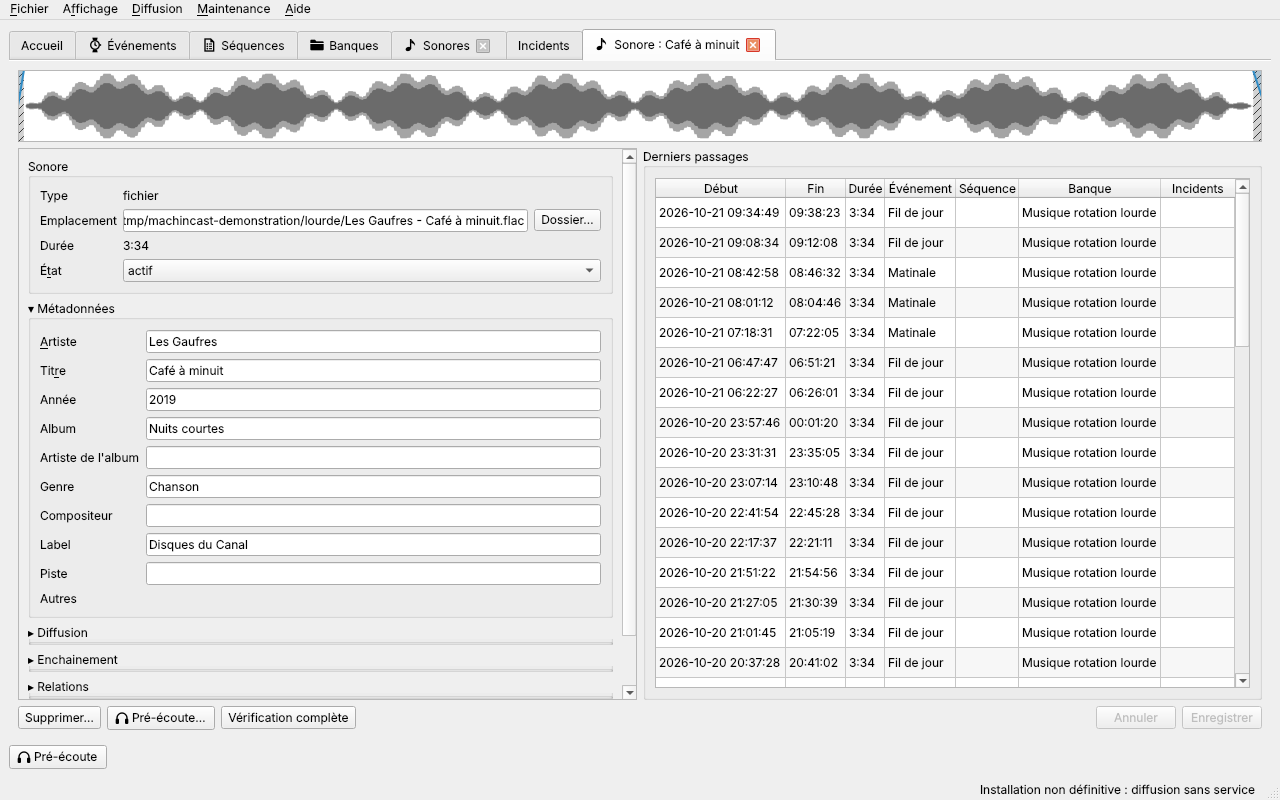
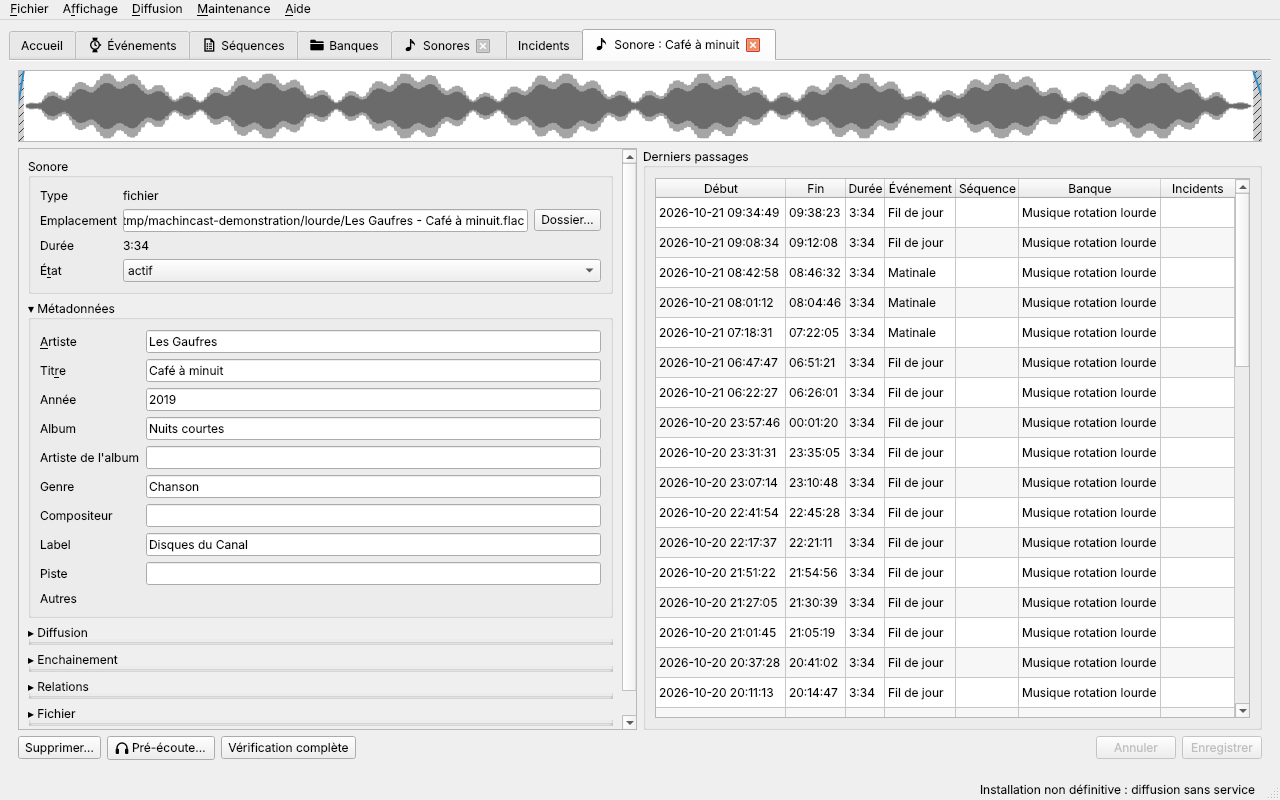
feat(interface): « Pré-écoute de l'antenne » en tête du menu « Diffusion », à la place du bouton du bas de la fenêtre
https://github.com/dascritch/machincast/issues/245
Pré-écoute en Menu → Diffusion

Claude-Session: https://claude.ai/code/session_01KaPegkCQoT3k3oMgjXGsiv

Changed region(s): [[0.0, 0.875, 0.2812, 0.9688], [0.7812, 0.8438, 0.9688, 0.9375], [0.4688, 0.8438, 0.75, 0.875]]

diff --git a/src/machincast/interface/ui/fenetre_principale.py b/src/machincast/interface/ui/fenetre_principale.py
@@ -15,9 +15,8 @@ from PySide6.QtGui import (QBrush, QColor, QConicalGradient, QCursor,
     QFont, QFontDatabase, QGradient, QIcon,
     QImage, QKeySequence, QLinearGradient, QPainter,
     QPalette, QPixmap, QRadialGradient, QTransform)
-from PySide6.QtWidgets import (QApplication, QHBoxLayout, QMainWindow, QPushButton,
-    QSizePolicy, QSpacerItem, QStatusBar, QTabWidget,
-    QVBoxLayout, QWidget)
+from PySide6.QtWidgets import (QApplication, QMainWindow, QSizePolicy, QStatusBar,
+    QTabWidget, QVBoxLayout, QWidget)
 
 class Ui_FenetrePrincipale(object):
     def setupUi(self, FenetrePrincipale):
@@ -34,20 +33,6 @@ class Ui_FenetrePrincipale(object):
 
         self.disposition.addWidget(self.onglets)
 
-        self.pied = QHBoxLayout()
-        self.pied.setObjectName(u"pied")
-        self.preecouter_l_antenne = QPushButton(self.centre)
-        self.preecouter_l_antenne.setObjectName(u"preecouter_l_antenne")
-
-        self.pied.addWidget(self.preecouter_l_antenne)
-
-        self.pousser_le_pied = QSpacerItem(0, 0, QSizePolicy.Policy.Expanding, QSizePolicy.Policy.Minimum)
-
-        self.pied.addItem(self.pousser_le_pied)
-
-
-        self.disposition.addLayout(self.pied)
-
         FenetrePrincipale.setCentralWidget(self.centre)
         self.barre_d_etat = QStatusBar(FenetrePrincipale)
         self.barre_d_etat.setObjectName(u"barre_d_etat")
@@ -60,9 +45,5 @@ class Ui_FenetrePrincipale(object):
 
     def retranslateUi(self, FenetrePrincipale):
         FenetrePrincipale.setWindowTitle(QCoreApplication.translate("FenetrePrincipale", u"MachinCast", None))
-#if QT_CONFIG(tooltip)
-        self.preecouter_l_antenne.setToolTip(QCoreApplication.translate("FenetrePrincipale", u"\u00c9couter l'antenne sur la sortie de pr\u00e9-\u00e9coute, aussit\u00f4t", None))
-#endif // QT_CONFIG(tooltip)
-        self.preecouter_l_antenne.setText(QCoreApplication.translate("FenetrePrincipale", u"Pr\u00e9-\u00e9coute", None))
     # retranslateUi
 

diff --git a/tests/etapes_preecoute.py b/tests/etapes_preecoute.py
@@ -5,7 +5,8 @@ l'antenne depuis le VU-mètre (test_vumetre.py, https://github.com/dascritch/mac
 """
 
 import psycopg
-from PySide6.QtCore import QPoint, Qt
+from PySide6.QtCore import Qt
+from PySide6.QtWidgets import QPushButton
 from pytest_bdd import parsers, then, when
 from pytestqt.qtbot import QtBot
 
@@ -130,21 +131,11 @@ def demander(interface: Contexte, base_vide: Connexion, titre: str) -> None:
 	fenetre(interface)._preecouter(identifiant(base_vide, "sonores", "titre", titre))
 
 
-@then("le bouton « Pré-écoute » est en bas à gauche de la fenêtre, hors des onglets")
-def en_bas_a_gauche(interface: Contexte, qtbot: QtBot) -> None:
-	"""https://github.com/dascritch/machincast/issues/223 : dans la barre d'état, à gauche de ses messages."""
+@then("la fenêtre n'a pas de bouton « Pré-écoute » sous ses onglets")
+def sans_bouton(interface: Contexte) -> None:
+	"""https://github.com/dascritch/machincast/issues/245 : l'entrée du menu « Diffusion » remplace le bouton."""
 	ouverte = fenetre(interface)
-	ouverte.show()
-	qtbot.wait(50)
-	bouton = ouverte.ui.preecouter_l_antenne
-	assert bouton.isVisible()
-	assert bouton.text() == "Pré-écoute"
-	assert not ouverte.ui.onglets.isAncestorOf(bouton)
-	coin = bouton.mapTo(ouverte, QPoint(0, 0))
-	assert coin.x() < ouverte.width() / 4, coin
-	assert coin.y() > ouverte.ui.onglets.mapTo(ouverte, QPoint(0, ouverte.ui.onglets.height())).y(), coin
-
-
-@when("je clique sur le bouton « Pré-écoute » de la fenêtre")
-def cliquer_preecoute(interface: Contexte, qtbot: QtBot) -> None:
-	qtbot.mouseClick(fenetre(interface).ui.preecouter_l_antenne, Qt.MouseButton.LeftButton)
+	hors_des_onglets = [
+		bouton for bouton in ouverte.findChildren(QPushButton) if not ouverte.ui.onglets.isAncestorOf(bouton)
+	]
+	assert [bouton.text() for bouton in hors_des_onglets if "Pré-écoute" in bouton.text()] == []

diff --git a/src/machincast/interface/fenetre.py b/src/machincast/interface/fenetre.py
@@ -231,8 +231,6 @@ class FenetrePrincipale(QMainWindow):
 		self.accueil.client.etat_recu.connect(self._suivre_le_texte_public)
 		self._texte_public: str | None = None
 		"""Le texte public du sonore en cours, titre de l'écoute de l'antenne."""
-		self.ui.preecouter_l_antenne.setIcon(icones.icone("pré-écoute"))
-		self.ui.preecouter_l_antenne.clicked.connect(lambda: self._ecouter_l_antenne(lancer=True))
 		self.accueil.client.etat_recu.connect(self._proposer_les_interruptions)
 		self._proposer_les_interruptions(ARRET)
 		self._relire_le_service()
@@ -321,6 +319,11 @@ class FenetrePrincipale(QMainWindow):
 		preecoute.triggered.connect(lambda: self._preecouter(None))
 		self.menu_diffusion = self.menuBar().addMenu("&Diffusion")
 		self.menu_diffusion.aboutToShow.connect(self._relire_le_service)
+		# L'écoute de l'antenne, lancée aussitôt, en tête du menu (https://github.com/dascritch/machincast/issues/245).
+		ecouter = self.menu_diffusion.addAction(icones.icone("pré-écoute"), "Pré-écoute de l'antenne")
+		ecouter.setToolTip("Écouter l'antenne sur la sortie de pré-écoute, aussitôt")
+		ecouter.triggered.connect(lambda: self._ecouter_l_antenne(lancer=True))
+		self.menu_diffusion.addSeparator()
 		self.pilotes: dict[str, QAction] = {}
 		for verbe, (entree, _reussite, _echec) in pilotage.VERBES.items():
 			action = self.menu_diffusion.addAction(entree)

diff --git a/doc/spec.md b/doc/spec.md
@@ -685,7 +685,7 @@ Mise en œuvre ([#28](https://github.com/dascritch/machincast/issues/28), `machi
 	- VU-mètre : celui de l'accueil ([§ 8.1](#81-écran-par-défaut)), horizontal : niveau RMS de chaque canal (élément `level`), de -60 à 0 dB, orange au-delà de -12 dB, rouge au-delà de -3 dB, et crête par-dessus, avec son repère ; son échelle en dB, sous les canaux, va de -60 à gauche à 0 à droite.
 	- Informations : format (codec), débit (celui des tags, sinon « ≈ » la taille du fichier sur sa durée), échantillonnage, canaux et, pour un stream, les secondes pré-décodées : la part remplie de son tampon de 5 secondes.
 	- Sortie : sur la sortie de l'antenne (`audio.sortie`), le périphérique `audio.preecoute`, jamais celui de l'antenne. Le choix liste les périphériques du poste que voit GStreamer, comme `gst-device-monitor-1.0 Audio/Sink`, ceux de la sortie configurée seulement (`machincast.audio.peripheriques`) : nœuds PipeWire, désignés par leur `node.name`, périphériques PulseAudio ou ALSA, par leur nom interne ; celui de la diffusion y est grisé, suivi de « (diffusion) », et ne peut pas être choisi, même par le clavier ; le périphérique configuré vient d'abord, « (introuvable) » s'il est absent. Le choix arrête la lecture, et s'enregistre dans `audio.preecoute` du fichier de configuration, qui garde ses commentaires ; sans fichier, il vaut pour la session.
-	- Écoute de l'antenne ([#24](https://github.com/dascritch/machincast/issues/24)) : un clic sur le VU-mètre de l'accueil charge l'antenne dans la fenêtre de pré-écoute, à la place du sonore précédent, à l'arrêt ; le bouton « Pré-écoute » de la fenêtre principale, en bas à gauche, hors des onglets, la charge de même et la lance aussitôt ([#223](https://github.com/dascritch/machincast/issues/223)). Le titre de la fenêtre est « en cours : » suivi du texte public du sonore en cours (champ `texte_public` de la socket d'état, `—` sans), qu'il suit tant que la fenêtre écoute l'antenne ; la source est « Antenne : » et le port de monitoring. Sous PipeWire, quand l'antenne et la pré-écoute y sont toutes deux, la lecture relie dans le graphe de PipeWire, par `pw-link` (`machincast.interface.liaison`), chaque port de monitoring de l'antenne (`<antenne>:monitor_FL`) à l'entrée du même canal du périphérique de pré-écoute (`<preecoute>:playback_FL`) ; une entrée unique, un casque mono, les reçoit tous. C'est une copie du flux de sortie, cadencée par PipeWire, sans rejouer le son ; le pipeline (port, `audioconvert`, `audioresample`, `level`, `fakesink`) ne fait que mesurer pour le VU-mètre. La pause, l'arrêt, un autre sonore, un autre périphérique et la fermeture de la fenêtre défont ces liens ; sans ports, ou sans `pw-link`, la lecture s'arrête et le dit. Avec PulseAudio, le pipeline joue ce port sur la sortie de pré-écoute. Dans les deux cas, comme un stream : sans position ni durée.
+	- Écoute de l'antenne ([#24](https://github.com/dascritch/machincast/issues/24)) : un clic sur le VU-mètre de l'accueil charge l'antenne dans la fenêtre de pré-écoute, à la place du sonore précédent, à l'arrêt ; « Pré-écoute de l'antenne », en tête du menu « Diffusion », la charge de même et la lance aussitôt ([#223](https://github.com/dascritch/machincast/issues/223), [#245](https://github.com/dascritch/machincast/issues/245)). Le titre de la fenêtre est « en cours : » suivi du texte public du sonore en cours (champ `texte_public` de la socket d'état, `—` sans), qu'il suit tant que la fenêtre écoute l'antenne ; la source est « Antenne : » et le port de monitoring. Sous PipeWire, quand l'antenne et la pré-écoute y sont toutes deux, la lecture relie dans le graphe de PipeWire, par `pw-link` (`machincast.interface.liaison`), chaque port de monitoring de l'antenne (`<antenne>:monitor_FL`) à l'entrée du même canal du périphérique de pré-écoute (`<preecoute>:playback_FL`) ; une entrée unique, un casque mono, les reçoit tous. C'est une copie du flux de sortie, cadencée par PipeWire, sans rejouer le son ; le pipeline (port, `audioconvert`, `audioresample`, `level`, `fakesink`) ne fait que mesurer pour le VU-mètre. La pause, l'arrêt, un autre sonore, un autre périphérique et la fermeture de la fenêtre défont ces liens ; sans ports, ou sans `pw-link`, la lecture s'arrête et le dit. Avec PulseAudio, le pipeline joue ce port sur la sortie de pré-écoute. Dans les deux cas, comme un stream : sans position ni durée.
 
 ### 8.4 Écran de détails d'une banque
 
@@ -806,7 +806,7 @@ Mise en œuvre du menu ([#117](https://github.com/dascritch/machincast/issues/11
 
 - **Fichier** : « Préférences… » ([#145](https://github.com/dascritch/machincast/issues/145), `machincast.interface.preferences`). Sa première page, « Crossfades » ([#234](https://github.com/dascritch/machincast/issues/234)), règle la granularité, la durée maximale et les durées par défaut des crossfades, et la position des fondus par rapport aux blancs détectés : « Le fade-in, au début détecté » et « Le fade-out, à la fin détectée », chacun « commence », « est en cours » ou « se termine », enregistrés dans `crossfades.position_entree` et `crossfades.position_sortie`. Une frise de démonstration, celle de la pré-écoute ([§ 8.3](#83-écran-de-détails-dun-sonore)), non interactive, montre un sonore inventé de 30 s, aux blancs de 3 s et 4 s retirés à l'antenne, avec une forme d'onde inventée (`frise.forme_de_demonstration`), les durées par défaut saisies, même décochées, et les positions choisies ; elle suit chaque réglage, et sa légende donne la partie jouée. La page « Audio » règle les périphériques de l'antenne et de la pré-écoute, enregistrés dans `audio.peripherique` et `audio.preecoute` ; chacun est grisé dans l'autre choix, et « OK » ne donne jamais le même aux deux ([#116](https://github.com/dascritch/machincast/issues/116)) ; elle règle aussi le seuil de blanc, de -100 à -0,1 dB, enregistré dans `blancs.seuil` ([#146](https://github.com/dascritch/machincast/issues/146)) ; les réglages des crossfades s'enregistrent dans la section `[crossfades]` du fichier de configuration par tomlkit, qui garde ses commentaires ; les fiches ouvertes ensuite les suivent, et Machin lecture les prend à son prochain démarrage ; inactive sans fichier de configuration ; « Quitter » (Alt+Q), qui ferme la fenêtre comme sa case de fermeture, après la question sur les fiches modifiées. La page « Interface » affiche ou cache aussi le voyant « Saturation » de l'accueil, enregistré dans `interface.saturation`, et l'accueil le suit aussitôt ([#191](https://github.com/dascritch/machincast/issues/191)). Elle active ou éteint les suggestions au lancement, enregistrées dans `interface.suggestions` ([#119](https://github.com/dascritch/machincast/issues/119)). Elle choisit enfin l'icône de l'application ([#111](https://github.com/dascritch/machincast/issues/111)) : un aperçu, le chemin de l'image ou « Icône de MachinCast », « Choisir une image… » (SVG, PNG ou JPEG ; une image que Qt ne sait pas lire n'est pas prise, et la page affiche « Image illisible : … ») et « Icône de MachinCast », qui y revient. L'image est enregistrée dans `interface.icone`, retiré pour l'icône de MachinCast. Une icône changée vaut aussitôt pour les fenêtres, et pour les raccourcis déjà installés dans le menu des applications et sur le bureau (`machincast.raccourci.reecrire`), réécrits en gardant leurs droits, puisque sous Wayland la barre des tâches et le menu prennent l'icône du raccourci ; aucun raccourci n'est créé. La barre d'état dit où l'icône a été mise à jour. Au lancement, une icône illisible ou introuvable laisse celle de MachinCast, et la barre d'état le dit.
 - **Affichage** : « Rechercher… » (Ctrl+F) ouvre l'onglet de la recherche globale ([#27](https://github.com/dascritch/machincast/issues/27), [§ 8.2](#82-recherche-et-navigation)) ; « Ouvrir l'onglet Sonores » et « Ouvrir l'onglet Marques-pages » ouvrent ces listes ([#180](https://github.com/dascritch/machincast/issues/180)) ; « Ouvrir l'onglet Grille horaire » ouvre l'onglet du calendrier, « Calendrier » ([§ 8.2](#82-recherche-et-navigation)) ; « Ouvrir l'onglet Simulation » ouvre l'onglet de la simulation ([#37](https://github.com/dascritch/machincast/issues/37), [§ 8.7](#87-écran-de-simulation)) ; « Ouvrir l'onglet Airplay » ouvre l'onglet de l'airplay ([#244](https://github.com/dascritch/machincast/issues/244), [§ 8.1](#81-écran-par-défaut)) ; « Pré-écoute… » ouvre la fenêtre de pré-écoute ([#116](https://github.com/dascritch/machincast/issues/116), [§ 8.3](#83-écran-de-détails-dun-sonore)) ; « Rafraîchir les onglets » (F5, [#148](https://github.com/dascritch/machincast/issues/148), `FenetrePrincipale.rafraichir`) relit l'onglet ouvert, l'airplay de l'accueil et chaque fiche ouverte (`Fiche.rafraichir`). Une fiche modifiée pose la question de fermeture (« avant de rafraîchir la fiche ») : enregistrer puis relire, abandonner et relire, ou la laisser telle quelle ; un enregistrement refusé la laisse aussi. La fiche d'un élément qui n'est plus en base se ferme. La barre d'état nomme les fiches laissées et fermées. Passer à un onglet le relit aussi ([#241](https://github.com/dascritch/machincast/issues/241), `FenetrePrincipale._onglet_ouvert`), s'il n'est pas en cours d'édition : une liste, les incidents, le calendrier, la recherche, l'onglet Airplay, l'airplay de l'accueil, et une fiche qui n'est pas modifiée, sans question ; une fiche modifiée reste telle quelle, et celle d'un élément effacé de la base se ferme (« Fiche fermée, son élément n'est plus en base : … »).
-- **Diffusion** ([#25](https://github.com/dascritch/machincast/issues/25), `machincast.interface.pilotage`) : « Démarrer la diffusion », « Arrêter la diffusion » ; « Redémarrer » n'est plus proposé ([#223](https://github.com/dascritch/machincast/issues/223)) : arrêter puis démarrer fait de même. Avec le service `machincast.service` ([§ 10](#10-installation-et-déploiement)), chacune appelle `systemctl start|stop|restart machincast.service` dans un processus à part (`QProcess`), sans attendre : la règle polkit demande l'authentification d'un administrateur à l'agent polkit de la session ; jamais `sudo`. La barre d'état dit la réussite (« Diffusion démarrée. », « Diffusion arrêtée. », « Diffusion redémarrée. ») ou l'échec, avec le message de systemctl (« Diffusion non démarrée : … »). Les entrées suivent l'état du service (`ActiveState` de `systemctl show`, `machincast.service.lire_l_etat`), relu au lancement, à l'ouverture du menu et après chaque commande : arrêté ou en échec, démarrer ; en marche, arrêter. **Sans le service**, l'installation n'est pas définitive : la barre d'état le signale en permanence (« Installation non définitive : diffusion sans service »), avec une infobulle qui dit comment installer le service ; le menu pilote alors une **diffusion d'essai**, `Machin lecture` lancé à la main (ce n'est pas `Machin lecture --simulation`, qui ne joue rien) : « Démarrer la diffusion d'essai » lance `bin/Machin lecture`, la commande même du service (`pilotage.COMMANDE_DU_SERVICE`), qui lit la configuration du service, le `machincast.toml` du répertoire de MachinCast, et diffuse donc sur le même périphérique que lui ; dans une fenêtre de terminal (konsole, sinon x-terminal-emulator), détachée de l'interface. Une interface lancée sur une autre configuration le dit dans sa barre d'état ; `Machin lecture` annonce à son démarrage sa sortie, son périphérique et sa configuration ; « Arrêter la diffusion d'essai » envoie `SIGTERM`, comme `Ctrl-C`, au processus qui répond sur la socket d'état (son pid, lu par `SO_PEERCRED`, `ClientEtat.pid_du_lecteur`), et annonce l'arrêt quand la socket se ferme. Démarrer n'est active que sans diffusion sur la socket, arrêter qu'avec elle.
+- **Diffusion**, en tête : « Pré-écoute de l'antenne », avec l'icône du casque, puis un trait ([#245](https://github.com/dascritch/machincast/issues/245)) ; elle écoute l'antenne aussitôt dans la fenêtre de pré-écoute ([§ 8.3](#83-écran-de-détails-dun-sonore)). Puis ([#25](https://github.com/dascritch/machincast/issues/25), `machincast.interface.pilotage`) : « Démarrer la diffusion », « Arrêter la diffusion » ; « Redémarrer » n'est plus proposé ([#223](https://github.com/dascritch/machincast/issues/223)) : arrêter puis démarrer fait de même. Avec le service `machincast.service` ([§ 10](#10-installation-et-déploiement)), chacune appelle `systemctl start|stop|restart machincast.service` dans un processus à part (`QProcess`), sans attendre : la règle polkit demande l'authentification d'un administrateur à l'agent polkit de la session ; jamais `sudo`. La barre d'état dit la réussite (« Diffusion démarrée. », « Diffusion arrêtée. », « Diffusion redémarrée. ») ou l'échec, avec le message de systemctl (« Diffusion non démarrée : … »). Les entrées suivent l'état du service (`ActiveState` de `systemctl show`, `machincast.service.lire_l_etat`), relu au lancement, à l'ouverture du menu et après chaque commande : arrêté ou en échec, démarrer ; en marche, arrêter. **Sans le service**, l'installation n'est pas définitive : la barre d'état le signale en permanence (« Installation non définitive : diffusion sans service »), avec une infobulle qui dit comment installer le service ; le menu pilote alors une **diffusion d'essai**, `Machin lecture` lancé à la main (ce n'est pas `Machin lecture --simulation`, qui ne joue rien) : « Démarrer la diffusion d'essai » lance `bin/Machin lecture`, la commande même du service (`pilotage.COMMANDE_DU_SERVICE`), qui lit la configuration du service, le `machincast.toml` du répertoire de MachinCast, et diffuse donc sur le même périphérique que lui ; dans une fenêtre de terminal (konsole, sinon x-terminal-emulator), détachée de l'interface. Une interface lancée sur une autre configuration le dit dans sa barre d'état ; `Machin lecture` annonce à son démarrage sa sortie, son périphérique et sa configuration ; « Arrêter la diffusion d'essai » envoie `SIGTERM`, comme `Ctrl-C`, au processus qui répond sur la socket d'état (son pid, lu par `SO_PEERCRED`, `ClientEtat.pid_du_lecteur`), et annonce l'arrêt quand la socket se ferme. Démarrer n'est active que sans diffusion sur la socket, arrêter qu'avec elle.
 - **Interruptions** ([#104](https://github.com/dascritch/machincast/issues/104), [#228](https://github.com/dascritch/machincast/issues/228), `machincast.interface.interruption`) : après un trait, « Sauter au sonore suivant », « Sauter après la séquence », « Couper l'événement par le fil musical » ([§ 4.9](#49-interruption-manuelle)). Elles suivent l'état de la socket d'état : chacune n'est active que si son élément est à l'antenne, la dernière hors du fil musical (`evenement_priorite`), et son infobulle le nomme (« « Café à minuit » ») ou dit pourquoi elle est inactive (« Rien à l'antenne », « Aucune séquence à l'antenne », « Le fil musical est déjà à l'antenne »). Choisie, elle envoie la demande aussitôt, sans question (décision de [#104](https://github.com/dascritch/machincast/issues/104)) ; la barre d'état l'annonce (« Saut au sonore suivant demandé. »), ou dit que `Machin_lecture` ne répond pas sur sa socket d'état.
 - **Maintenance** : « Moniteur de la sortie… », à venir ; « Indexation rapide » et « Audit complet » (ci-dessous).
 - **Aide** : « Documentation » ouvre le guide de l'antenne, `doc/utilisateur/README.md` sur GitHub, dans le navigateur web ([#128](https://github.com/dascritch/machincast/issues/128)) ; « Signaler un problème… » ouvre les tickets GitHub dans le navigateur web (`dialogues.ouvrir_page`) ; « Version » montre le numéro de version et la date du dernier commit du dépôt d'où MachinCast est installé, à l'heure du poste (`machincast.interface.version`, `dialogues.montrer_version`), ou dit qu'elle est inconnue hors d'un dépôt git ou sans git.

diff --git a/doc/utilisateur/prise-en-main.md b/doc/utilisateur/prise-en-main.md
@@ -80,7 +80,7 @@ Entre les deux sonores, la colonne **Antenne** montre ce qui sort réellement à
 - **Saturation**, au-dessus : ce voyant s'allume, rouge, dès qu'une crête atteint -1 dB, et le reste 3 secondes. Il se cache dans les [préférences](#préférences).
 - **VU-mètre** : une barre par canal, « G » et « D », de -60 dB en bas à 0 dB en haut, séparées par l'échelle. La partie pleine est le niveau moyen ; la partie plus claire au-dessus, la crête du moment ; un trait garde la plus haute crête pendant 2 secondes. Vert, orange au-delà de -12 dB, rouge au-delà de -3 dB.
 - **Silence**, en dessous : ce voyant s'allume, orange, quand le son reste à -50 dB ou moins pendant 5 secondes : un blanc d'antenne. Il s'éteint dès que le son revient.
-- **Écouter l'antenne** : un clic sur le VU-mètre ouvre la [pré-écoute](sonores.md#pré-écoute) sur l'antenne, sans la lancer. Le bouton **Pré-écoute**, en bas à gauche de la fenêtre, sous les onglets, l'ouvre de même, et la lance aussitôt ([#223](https://github.com/dascritch/machincast/issues/223)). Le titre de la fenêtre d'écoute est « en cours : » suivi du texte public du sonore à l'antenne, et le suit d'un sonore à l'autre.
+- **Écouter l'antenne** : un clic sur le VU-mètre ouvre la [pré-écoute](sonores.md#pré-écoute) sur l'antenne, sans la lancer. **Diffusion → Pré-écoute de l'antenne** l'ouvre de même, et la lance aussitôt ([#245](https://github.com/dascritch/machincast/issues/245)). Le titre de la fenêtre d'écoute est « en cours : » suivi du texte public du sonore à l'antenne, et le suit d'un sonore à l'autre.
 
 Le VU-mètre écoute le périphérique de l'antenne, quel que soit le programme qui y joue. Quand il ne peut pas, un message le dit sous les voyants :
 
@@ -119,6 +119,7 @@ Une fonction pas encore écrite a déjà son entrée, grisée : son infobulle do
 | Affichage | Ouvrir l'onglet Simulation | Ouvre la simulation ([Simulation](grille.md#simulation)). |
 | Affichage | Ouvrir l'onglet Airplay | Ouvre l'historique de diffusion, réglable et exportable ([Onglet Airplay](#onglet-airplay)). |
 | Affichage | Pré-écoute… | Ouvre la fenêtre de pré-écoute ([Pré-écoute](sonores.md#pré-écoute)). Comme chaque bouton et chaque entrée de pré-écoute, elle porte un casque. |
+| Diffusion | Pré-écoute de l'antenne | En tête du menu : écoute aussitôt l'antenne sur la sortie de pré-écoute ([Pré-écoute](sonores.md#pré-écoute), [#245](https://github.com/dascritch/machincast/issues/245)). |
 | Diffusion | Démarrer, Arrêter la diffusion | Pilotent la diffusion ([Piloter la diffusion](antenne.md#piloter-la-diffusion)). |
 | Diffusion | Sauter au sonore suivant, Sauter après la séquence, Couper l'événement par le fil musical | Corrigent l'antenne sans attendre ([Interrompre l'antenne](antenne.md#interrompre-lantenne)). |
 | Maintenance | Indexation rapide, Audit complet | Vérifient les sonores ([Indexation depuis l'interface](sonores.md#indexation-depuis-linterface)). |

diff --git a/doc/utilisateur/sonores.md b/doc/utilisateur/sonores.md
@@ -106,7 +106,7 @@ La fiche d'un sonore s'ouvre dans un onglet nommé « Sonore : » suivi de son t
 
 ## Pré-écoute
 
-La **fenêtre de pré-écoute** fait écouter un sonore, ou l'antenne, sur le casque de la régie, **jamais sur l'antenne**. Le bouton **Pré-écoute…** d'une fiche de sonore, ou **Affichage → Pré-écoute…**, l'ouvre. Le **clic droit** sur la ligne d'un sonore propose aussi **Pré-écoute…**, en tête du menu ([#226](https://github.com/dascritch/machincast/issues/226)) : dans l'airplay de l'accueil, la liste des sonores, les éléments d'une séquence ou d'un événement, et les sonores d'une banque. Il pré-écoute le sonore de la ligne cliquée, même au milieu d'une sélection ; une ligne qui ne désigne pas de sonore enregistré (une banque, un fichier déposé pas encore enregistré, un sonore supprimé depuis son passage) ne le propose pas. un clic sur le [VU-mètre de l'accueil](prise-en-main.md#vu-mètre-de-lantenne) y charge l'antenne.
+La **fenêtre de pré-écoute** fait écouter un sonore, ou l'antenne, sur le casque de la régie, **jamais sur l'antenne**. Le bouton **Pré-écoute…** d'une fiche de sonore, ou **Affichage → Pré-écoute…**, l'ouvre. Le **clic droit** sur la ligne d'un sonore propose aussi **Pré-écoute…**, en tête du menu ([#226](https://github.com/dascritch/machincast/issues/226)) : dans l'airplay de l'accueil, la liste des sonores, les éléments d'une séquence ou d'un événement, et les sonores d'une banque. Il pré-écoute le sonore de la ligne cliquée, même au milieu d'une sélection ; une ligne qui ne désigne pas de sonore enregistré (une banque, un fichier déposé pas encore enregistré, un sonore supprimé depuis son passage) ne le propose pas. Un clic sur le [VU-mètre de l'accueil](prise-en-main.md#vu-mètre-de-lantenne) y charge l'antenne ; **Diffusion → Pré-écoute de l'antenne** la charge et la lance aussitôt ([#245](https://github.com/dascritch/machincast/issues/245)).
 
 ![La fenêtre de pré-écoute, à l'arrêt, chargée sur l'antenne, avec sa sortie : le casque de la régie](../captures/preecoute.png)
 
